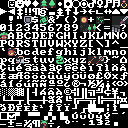
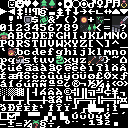
test kenney_micro tiles tweaks

Changed region(s): [[0.25, 0.9375, 0.375, 1.0]]

diff --git a/src/map_builder/themes.rs b/src/map_builder/themes.rs
@@ -91,6 +91,58 @@ impl MapTheme for RootedTheme {
     }
 }
 
+pub struct TiledTheme {}
+
+impl TiledTheme {
+    pub fn new() -> Box<dyn MapTheme> {
+        Box::new(Self {})
+    }
+}
+
+impl MapTheme for TiledTheme {
+    fn tile_to_render(&self, tile_type: TileType) -> FontCharType {
+        match tile_type {
+            TileType::Floor => to_cp437('.'),
+            TileType::FloorVar1 => to_cp437(':'), //rubble
+            TileType::FloorVar2 => to_cp437(','), //smalfoilage
+            TileType::FloorVar3 => to_cp437(';'), //bigfoilage
+            TileType::Wall => to_cp437('#'),
+            TileType::WallVar1 => to_cp437('⌠'), //tree
+            TileType::WallVar2 => to_cp437('%'),   //roots
+            TileType::WallVar3 => to_cp437('♣'), //bush
+            TileType::Exit => to_cp437('>'),
+        }
+    }
+
+    fn in_fov_colorpair_to_render(&self, tile_type: TileType) -> ColorPair {
+        match tile_type {
+            TileType::Floor
+            | TileType::FloorVar1
+            | TileType::FloorVar2
+            | TileType::FloorVar3
+            | TileType::Wall
+            | TileType::WallVar1
+            | TileType::WallVar2
+            | TileType::WallVar3
+            | TileType::Exit => ColorPair::new(WHITE, BLACK),
+        }
+    }
+
+    fn out_fov_colorpair_to_render(&self, tile_type: TileType) -> ColorPair {
+        match tile_type {
+            TileType::Floor
+            | TileType::FloorVar1
+            | TileType::FloorVar2
+            | TileType::FloorVar3
+            | TileType::Wall
+            | TileType::WallVar1
+            | TileType::WallVar2
+            | TileType::WallVar3
+            | TileType::Exit => ColorPair::new(DARK_GRAY, BLACK),
+        }
+    }
+}
+
 pub struct DungeonTheme {}
 
 impl DungeonTheme {

diff --git a/src/map_builder/mod.rs b/src/map_builder/mod.rs
@@ -44,7 +44,7 @@ impl MapBuilder {
         let mut mb = architect.new(rng);
         apply(&mut mb, rng);
 
-        mb.theme = RootedTheme::new();
+        mb.theme = TiledTheme::new();
 
         mb.tile_variety(rng);
 

diff --git a/ToDo.md b/ToDo.md
@@ -10,13 +10,15 @@
 
 ## Features
 ### ToDo
+- make entity theme for tileset (similar to maptheme)
 1. stacked (amount) projectiles
     - (X) base
     - (X) print stack in hud
     - () add to stack when equiped
 2. targetting (check rustyrogueliketutorial)
-3. Kenney Tiles test?
 ### Done
+- Kenney Tiles test?
+
 
 ## Balance
 ### ToDo
